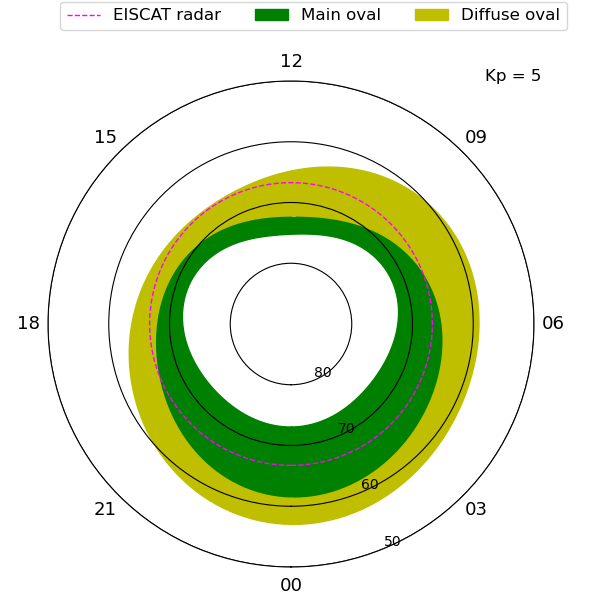
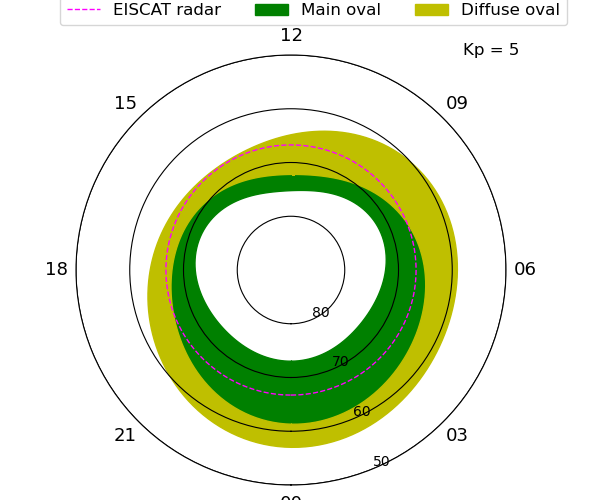
FS figure is updated

diff --git a/test_FS_oval.py b/test_FS_oval.py
@@ -26,7 +26,7 @@ thetha1 = FS_oval(kp, smlt, 1) # # equatorward boundary of the main oval
 thetha2 = FS_oval(kp, smlt, 2) # # Equatorward boundary of the diffuse oval
 #
 #%%
-fig, ax = plt.subplots(subplot_kw = {'projection':'polar'},figsize = (6, 6), \
+fig, ax = plt.subplots(subplot_kw = {'projection':'polar'},figsize = (6, 5), \
                        gridspec_kw={'top':0.89, 'bottom':0.03, 'left':0.08, 'right':0.89});
 ax.plot(x, thetha0, lw = 0)
 ax.plot(x, rmlat, '--', color = 'magenta', lw = 1., zorder = 2, label = 'EISCAT radar')
